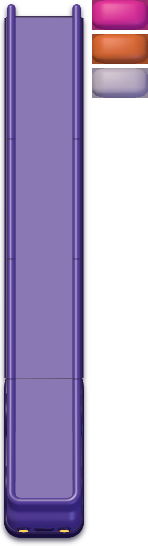
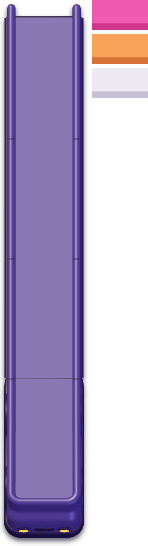
Update truck cargo sprites and bus layouts

Changed region(s): [[0.6216, 0.0, 1.0, 0.1868]]

diff --git a/src/board.ts b/src/board.ts
@@ -30,16 +30,16 @@ const buses: readonly Bus[] = [
     ['pink', 'white', 'orange', 'pink'],
   ],
   [
-    ['white', 'white', 'white', 'white'],
-    ['pink', 'pink', 'white', 'orange'],
-    ['white', 'pink', null, null],
     emptyWagon,
+    [null, null, 'white', 'white'],
+    ['white', 'white', 'pink', 'pink'],
+    ['white', 'orange', 'white', 'pink'],
   ],
   [
+    emptyWagon,
     ['orange', 'pink', 'pink', 'orange'],
     ['white', 'white', 'orange', 'pink'],
     ['orange', 'white', 'pink', 'pink'],
-    emptyWagon,
   ],
 ];
 

diff --git a/README.md b/README.md
@@ -2,7 +2,7 @@
 
 PixiJS and TypeScript prototype for the Voodoo playable ad task. Translucent arrows move counterclockwise around the conveyor above six carriers.
 
-The truck and cargo sprites in `src/assets/truck-atlas.png` are rendered from the supplied `1.8kV2.fbx` truck and `Cube Beveled.fbx` models.
+The truck and cargo sprites in `src/assets/truck-atlas.png` are rendered from the supplied `1.8kV2.fbx` truck and `Cube.fbx` models.
 
 ## Local development
 
